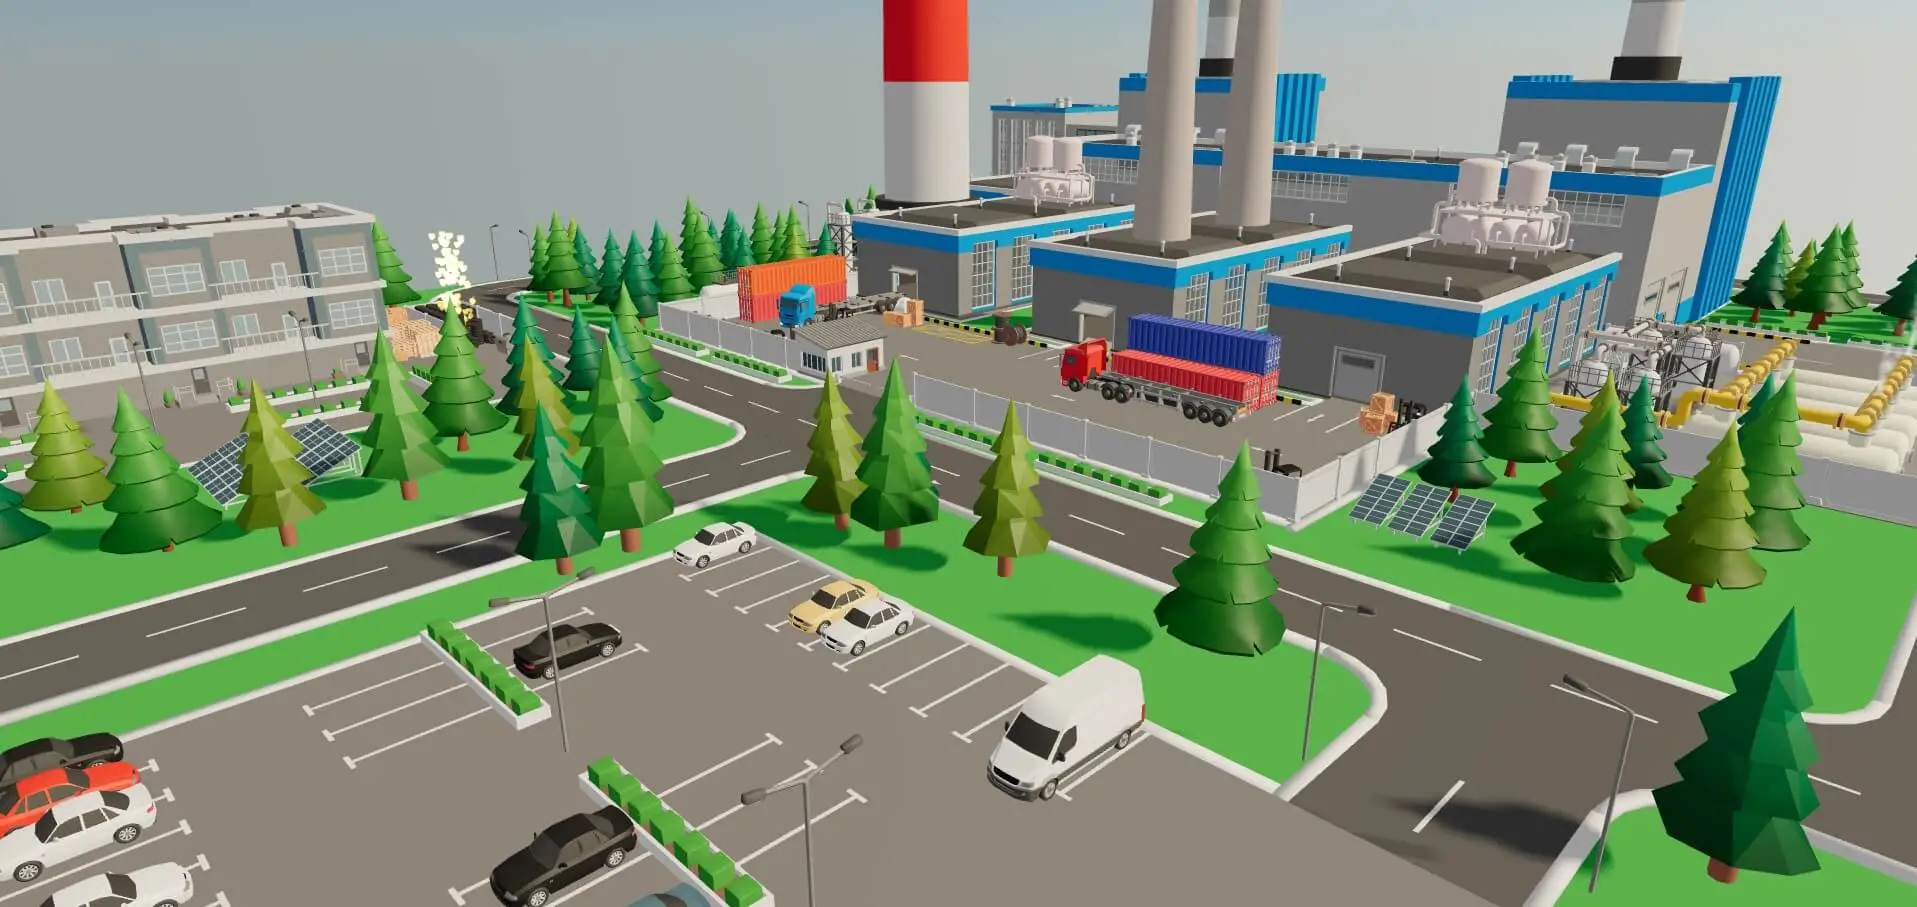
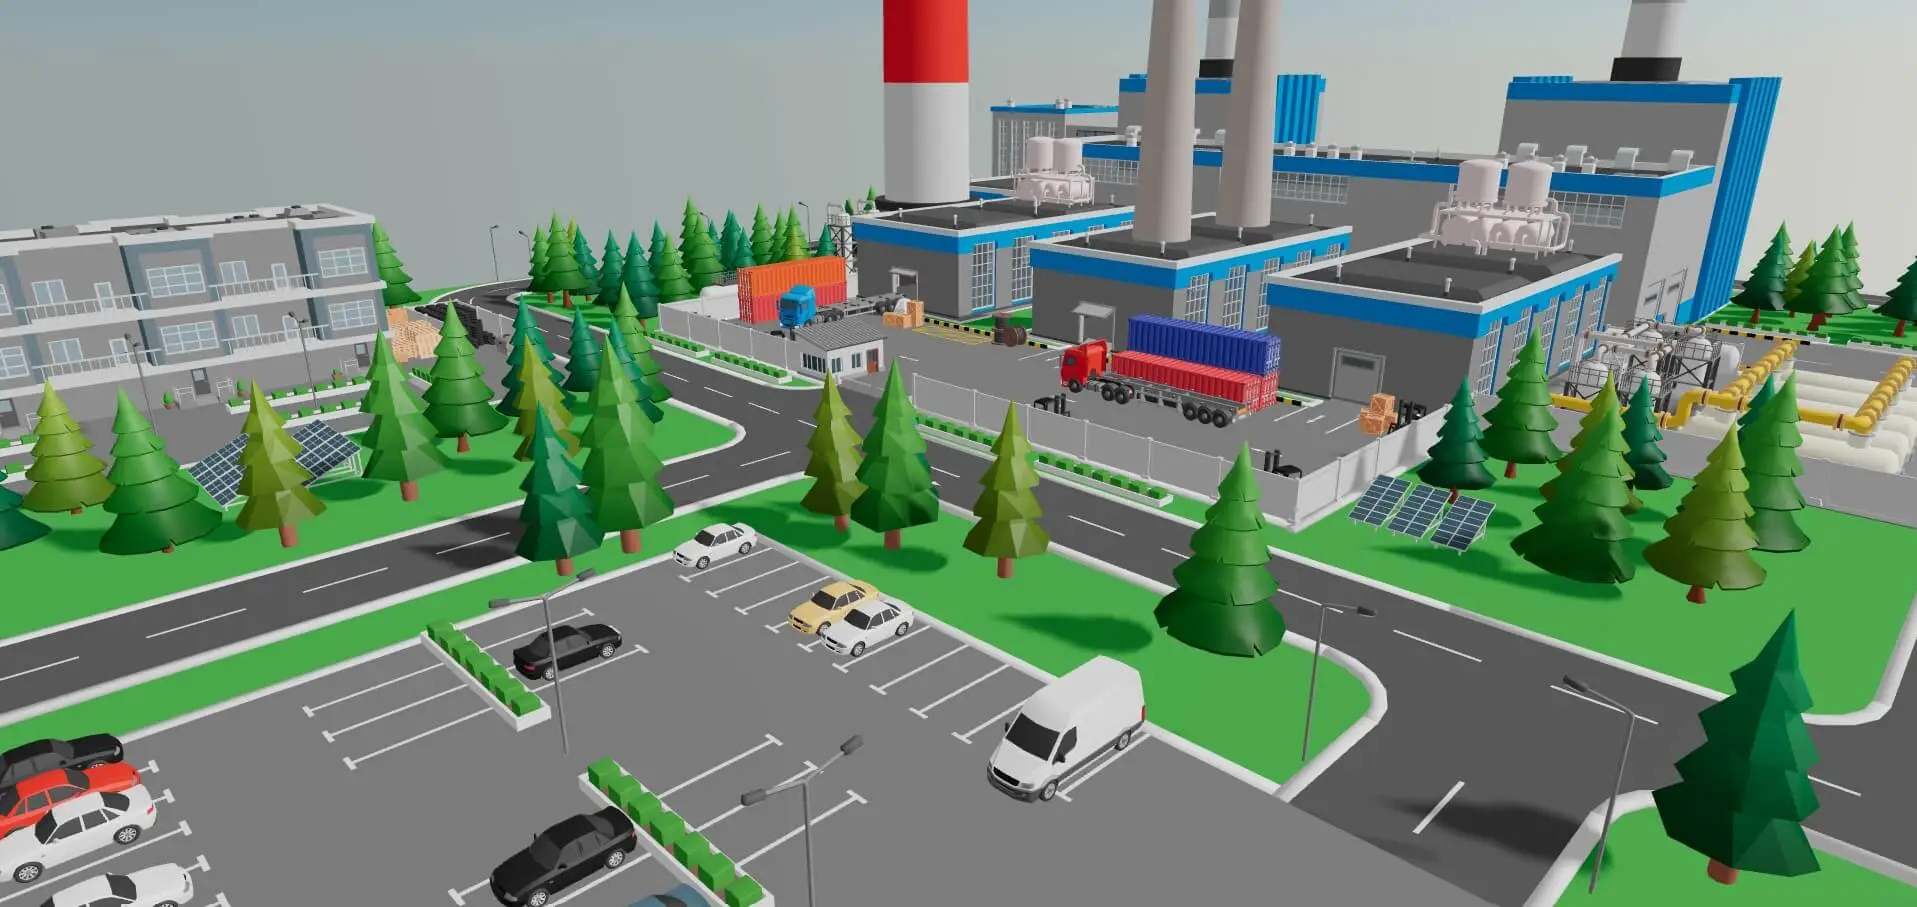
Améliorations animations fumées

diff --git a/src/Smoke.jsx b/src/Smoke.jsx
@@ -1,4 +1,4 @@
-import { AdditiveBlending } from "three";
+import { AdditiveBlending, NormalBlending, MathUtils } from "three";
 import { useFrame } from "@react-three/fiber";
 import { useMemo, useRef } from "react";
 import { useTexture } from "@react-three/drei";
@@ -6,11 +6,11 @@ import { useTexture } from "@react-three/drei";
 const rand = (min, max) => min + Math.random() * (max - min);
 
 export default function Smoke({
-  count = 100,
+  count = 130,
   origin = [0, 0, 0],
   radius = 0.2,
   height = 1.5,
-  size = 1.8,
+  size = 2.5,
   speed = 0.004,
   isFire = false,
 }) {
@@ -18,15 +18,34 @@ export default function Smoke({
   const fireTex = useTexture("/particle-flame.png");
   const smokeTex = useTexture("/particle-smoke.png");
   const sprite = isFire ? fireTex : smokeTex;
-  const { positions, velocities, ages, lifes } = useMemo(() => {
+
+  // ✅ Création des buffers UNE SEULE FOIS tant que `count` ne change pas
+  const { positions, velocities, ages, lifes, colors } = useMemo(() => {
     const positions = new Float32Array(count * 3);
     const velocities = new Float32Array(count * 3);
     const ages = new Float32Array(count);
     const lifes = new Float32Array(count);
+    const colors = new Float32Array(count * 3);
+
     for (let i = 0; i < count; i++) {
       spawn(i, positions, velocities, ages, lifes);
+      const idx = i * 3;
+
+      if (isFire) {
+        // couleur de base du feu (orange)
+        colors[idx] = 1.0; // R
+        colors[idx + 1] = 0.6; // G
+        colors[idx + 2] = 0.2; // B
+      } else {
+        // fumée : gris
+        colors[idx] = 0.6;
+        colors[idx + 1] = 0.6;
+        colors[idx + 2] = 0.6;
+      }
     }
-    return { positions, velocities, ages, lifes };
+
+    return { positions, velocities, ages, lifes, colors };
+    // 👇 seul `count` est pris en compte → pas de recréation sur changement de state parent
   }, [count]);
 
   function spawn(i, positions, velocities, ages, lifes) {
@@ -36,31 +55,70 @@ export default function Smoke({
     const y = origin[1];
     const z = origin[2] + Math.sin(a) * r;
     const idx = i * 3;
+
     positions[idx] = x;
     positions[idx + 1] = y;
     positions[idx + 2] = z;
+
     velocities[idx] = rand(-0.15, 0.15);
     velocities[idx + 1] = rand(0.9, 9.6);
     velocities[idx + 2] = rand(-0.15, 0.15);
+
     ages[i] = 0;
     lifes[i] = rand(0.6, 1.1);
   }
+
   useFrame((_, delta) => {
     const geom = pointsRef.current?.geometry;
     if (!geom) return;
     const dt = Math.min(delta, speed);
+
     for (let i = 0; i < count; i++) {
       const idx = i * 3;
       ages[i] += dt;
+
       if (ages[i] > lifes[i] || positions[idx + 1] > origin[1] + height) {
+        // respawn particule
         spawn(i, positions, velocities, ages, lifes);
+
+        // reset couleur de départ
+        if (isFire) {
+          colors[idx] = 1.0;
+          colors[idx + 1] = 0.6;
+          colors[idx + 2] = 0.2;
+        } else {
+          colors[idx] = 0.6;
+          colors[idx + 1] = 0.6;
+          colors[idx + 2] = 0.6;
+        }
         continue;
       }
+
+      // mouvement
       positions[idx] += velocities[idx] * dt;
       positions[idx + 1] += velocities[idx + 1] * dt;
       positions[idx + 2] += velocities[idx + 2] * dt;
+
+      // 🔥 Seulement si isFire : couleur → noir en montant
+      if (isFire) {
+        // progression verticale 0 (en bas) → 1 (en haut)
+        const rawT = (positions[idx + 1] - origin[1]) / height;
+        const t = MathUtils.clamp(rawT, 0, 1);
+        const tPow = t * t; // plus agressif qu'une simple interpolation linéaire
+        const inv = 1 - tPow; // 1 en bas, 0 en haut
+
+        const baseR = 1.0;
+        const baseG = 0.6;
+        const baseB = 0.2;
+
+        colors[idx] = baseR * inv;
+        colors[idx + 1] = baseG * inv;
+        colors[idx + 2] = baseB * inv;
+      }
     }
+
     geom.attributes.position.needsUpdate = true;
+    geom.attributes.color.needsUpdate = true;
   });
 
   return (
@@ -72,6 +130,12 @@ export default function Smoke({
           itemSize={3}
           count={count}
         />
+        <bufferAttribute
+          attach="attributes-color"
+          array={colors}
+          itemSize={3}
+          count={count}
+        />
       </bufferGeometry>
       <pointsMaterial
         map={sprite}
@@ -79,9 +143,11 @@ export default function Smoke({
         alphaTest={0.02}
         opacity={0.75}
         depthWrite={false}
-        blending={AdditiveBlending}
+        blending={isFire ? NormalBlending : AdditiveBlending}
         size={size}
         sizeAttenuation
+        vertexColors
+        toneMapped={false}
       />
     </points>
   );

diff --git a/src/Experience.jsx b/src/Experience.jsx
@@ -1,8 +1,7 @@
-import { useEffect, useRef, useMemo } from "react";
+import { useEffect, useRef } from "react";
 import { Sky } from "@react-three/drei";
-import { useControls } from "leva";
+// import { useControls } from "leva";
 import { Perf } from "r3f-perf";
-import { Color } from "three";
 
 import Factory from "./Factory";
 import Buttons from "./Buttons";
@@ -29,41 +28,9 @@ export default function Experience({ objectToView, handleSelectView, muted }) {
     objectToView && moveCameraTo(objectToView);
   }, [objectToView]);
 
-  const { globalLight, directionalLight, colorLight, showPerf } = useControls({
-    globalLight: {
-      value: 1,
-      min: 0,
-      max: 5,
-      step: 0.1,
-      label: "Lumière globale",
-    },
-    directionalLight: {
-      value: 3,
-      min: 0,
-      max: 5,
-      step: 0.1,
-      label: "Lumière directionnelle",
-    },
-    colorLight: {
-      r: 255,
-      g: 235,
-      b: 200,
-      label: "Couleur de la lumière",
-    },
-    showPerf: {
-      value: true,
-      label: "Show performance stats",
-    },
-  });
-
-  const lightColor = useMemo(
-    () => new Color(colorLight.r / 255, colorLight.g / 255, colorLight.b / 255),
-    [colorLight]
-  );
-
   return (
     <>
-      {showPerf && <Perf position="bottom-left" />}
+      <Perf position="bottom-left" />
 
       <Camera ref={cameraRef} />
       <Sky distance={450000} sunPosition={[10, 1, 10]} />
@@ -72,7 +39,7 @@ export default function Experience({ objectToView, handleSelectView, muted }) {
         // shadow-bias={0.4}
         shadow-bias={-0.05}
         position={[10, 20, 20]}
-        intensity={directionalLight}
+        intensity={2}
         shadow-camera-top={40}
         shadow-camera-bottom={-40}
         shadow-camera-left={-40}
@@ -80,9 +47,9 @@ export default function Experience({ objectToView, handleSelectView, muted }) {
         shadow-camera-near={0.1}
         shadow-camera-far={50}
         shadow-mapSize={800}
-        color={lightColor}
+        color="#e4d0afff"
       />
-      <ambientLight intensity={globalLight} color={colorLight} />
+      <ambientLight intensity={1} />
       <group ref={groupRef}>
         <Factory scale={0.4} position-z={-2.6} />
         <Buttons
@@ -93,7 +60,7 @@ export default function Experience({ objectToView, handleSelectView, muted }) {
         />
         <Sounds muted={muted} />
         {/* Cheminées */}
-        <Smoke origin={[15.7, 12, -4.7]} radius={0.6} height={10} />
+        <Smoke origin={[15.8, 13, -4.7]} radius={0.7} height={15} />
         <Smoke origin={[21.5, 13, -4.7]} radius={0.7} height={15} />
         {/* Incendie */}
         <Smoke
@@ -109,3 +76,30 @@ export default function Experience({ objectToView, handleSelectView, muted }) {
     </>
   );
 }
+
+// const { globalLight, directionalLight, colorLight, showPerf } = useControls({
+//     globalLight: {
+//       value: 1,
+//       min: 0,
+//       max: 5,
+//       step: 0.1,
+//       label: "Lumière globale",
+//     },
+//     directionalLight: {
+//       value: 2,
+//       min: 0,
+//       max: 5,
+//       step: 0.1,
+//       label: "Lumière directionnelle",
+//     },
+//     colorLight: {
+//       r: 255,
+//       g: 235,
+//       b: 200,
+//       label: "Couleur de la lumière",
+//     },
+//     showPerf: {
+//       value: true,
+//       label: "Show performance stats",
+//     },
+//   });
